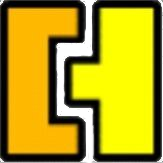
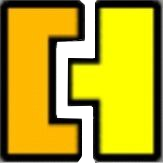
Спрайты доработаны

diff --git a/GameComponents/Character.py b/GameComponents/Character.py
@@ -18,7 +18,7 @@ class Character(Object):
     coin = 0
 
     def __init__(self, group, pos, window, image_name=None, form='rect'):
-        super().__init__(group, image_name, size=[40, 40], take_size=True, colorkey=pygame.color.Color('white'), form=form)
+        super().__init__(group, image_name, size=[40, 40], take_size=True, form=form)
         self.rect.left, self.rect.top = pos
         self.window = window
 
@@ -83,7 +83,7 @@ class Cube(Character):
 class Ufo(Character):
     def __init__(self, group, pos, window):
         self.ufo_image = json.load(open('Data/skins.json'))['ufos']['curent']
-        super().__init__(group, pos, window, ('Color', 'green'))
+        super().__init__(group, pos, window, ('Image', self.ufo_image))
 
     def jump(self):
         if not self.hold:
@@ -94,7 +94,7 @@ class Ball(Character):
 
     def __init__(self, group, pos, window):
         self.ball_image = json.load(open('Data/skins.json'))['balls']['curent']
-        super().__init__(group, pos, window, ('Color', 'red'), form='circle')
+        super().__init__(group, pos, window, ('Image', self.ball_image), form='circle')
 
     def jump(self):
         if pygame.sprite.spritecollideany(self, self.window.platforms):
@@ -105,7 +105,7 @@ class Ship(Character):
     FLY_VELOCITY = 0.5
     def __init__(self, group, pos, window):
         self.ship_image = json.load(open('Data/skins.json'))['ships']['curent']
-        super().__init__(group, pos, window, ('Color', '#FF69B4'))
+        super().__init__(group, pos, window, ('Image', self.ship_image))
 
     def jump(self):
         self.Vy += self.FLY_VELOCITY * sign(self.G)

diff --git a/GameComponents/Button.py b/GameComponents/Button.py
@@ -34,8 +34,9 @@ class RedButton(Button):
     btn_prsd_img = load_image("red_button_press.png")
     btn_hover_img = load_image("red_button_hover.png")
 
-    def __init__(self, group, coords=(0, 0), text=''):
-        super().__init__(group, self.btn_img, coords, text)
+    def __init__(self, group, coords=(0, 0), text='', size=None):
+        super().__init__(group, self.btn_img, coords, text, size=size)
+        self.size = size
         self.text_write()
 
     def update(self, *args):
@@ -53,6 +54,8 @@ class RedButton(Button):
             self.image = self.btn_hover_img.copy()
         else:
             self.image = self.btn_img.copy()
+        if self.size:
+            self.image = pygame.transform.scale(self.image, self.size)
         self.text_write()
 
 class ReturnButton(Button):
@@ -70,5 +73,5 @@ class ChrButton(Button):
         self.image = pygame.Surface(size)
         self.image.fill(pygame.color.Color(back_color))
         super().__init__(group, self.image, size=(50, 50), text=text, coords=coords)
-        self.skin = pygame.transform.scale(load_image(image, colorkey=pygame.color.Color('white')), (40, 40))
+        self.skin = pygame.transform.scale(load_image(image, colorkey=None), (40, 40))
         self.image.blit(self.skin, (5, 5))

diff --git a/GameComponents/Window.py b/GameComponents/Window.py
@@ -273,8 +273,8 @@ class LevelWinWindow(Window):
         super().__init__(screen, (400, 300), ('Image', 'fon.jpg'), (200, 100))
         self.buttons = pygame.sprite.Group()
         self.coins = pygame.sprite.Group()
-        self.backbtn = ReturnButton(self.buttons, (450, 300))
-        self.restart = RestartButton(self.buttons, (350, 300))
+        self.backbtn = RedButton(self.buttons, (220, 300), 'Завершить', (160, 50))
+        self.restart = RedButton(self.buttons, (400, 300), "Начать заново", (160, 50))
 
     def show(self, coins):
         self.Lable = self.make_lines(self.intro_text)

diff --git a/GameComponents/Object.py b/GameComponents/Object.py
@@ -68,7 +68,7 @@ class Coin(Object):
         if collected:
             super().__init__(group[0], ('Image', 'coin.png'), size=[40, 40], take_size=True)
         else:
-            super().__init__(group[0], ('Color', 'green'), size=[40, 40], take_size=True, form='circle')
+            super().__init__(group[0], ('Color', 'blue'), size=[40, 40], take_size=True, form='circle')
         self.SG = group
         self.add(group[1])
         self.rect.top = pos[1]
